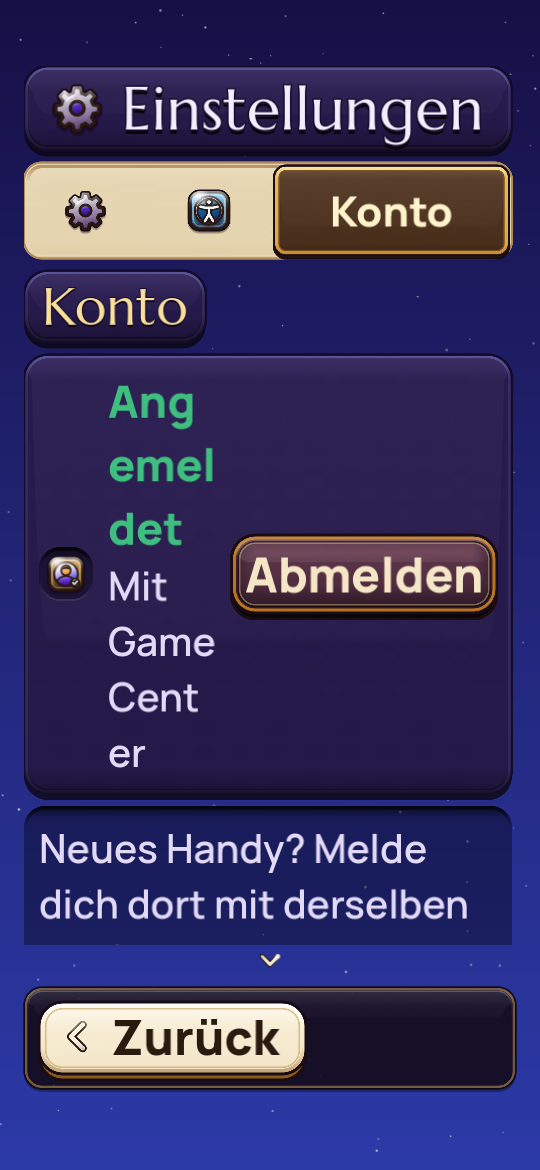
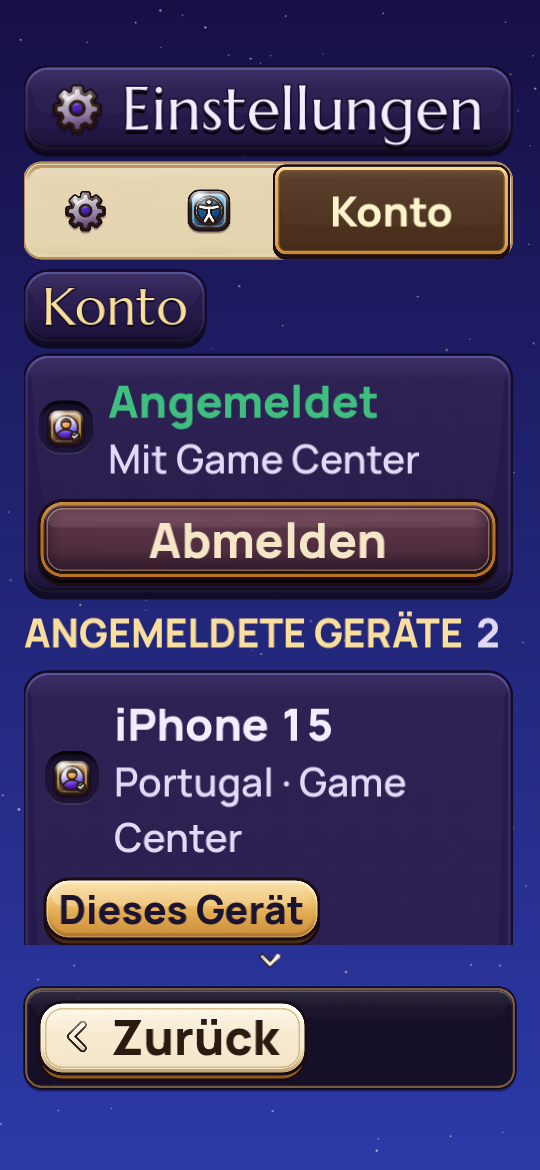
P2-S3-character-3: S3-R30's auth panel fixes; fit 20/20 and 50/50
The auth panel listens to the store again when it re-enters the tree,
so the signed-in account tab draws its devices and ways to sign in.
Past 125% text, each of its rows puts its end control under its words.
New stills of the signed-in account tab at 200% in German; M29 acked.

Claude-Session: https://claude.ai/code/session_01SNkKxqxSgTQePYHeS97vWa

Changed region(s): [[0.0296, 0.3077, 0.9481, 0.8308]]

diff --git a/docs/progress/S3.md b/docs/progress/S3.md
@@ -1,10 +1,10 @@
 # S3 character and settings screens: progress
 
-- Status: Blocked. P2-S3-character-3: board 5b's K and L are fixed and checked. Lesson M26's wider fit checks find one failing state, the account tab signed in at 200% text, and its fix is in `auth_panel.gd`, which no task owns. S3-R30 asks the lead for that file. AD's preview S3-R29 is open (due 11:43Z).
-- Progress: 5 of 5 earlier product tasks merged. P2-S3-character-3: K and L done; M26's coverage done; 68 of 70 fit shots pass (the two left are the signed-in account tab at 200% in English and German).
-- Done: K (the top-level pill wraps between words at large text), L (the profile row on parchment; value-steps 72.7 and 72.2), and M26's coverage: `fit_character.sh` renders 50 shots, `fit_settings.sh` 20.
-- Next: the lead's answer to S3-R30, or its default. Then the two fixes in `auth_panel.gd`, `fit_settings.sh` 20 of 20, the pre-check, and ready with gate_request ("character at 200% text, pt_BR": Display type, Hierarchy).
-- Blocked by: S3-R30 (the lead; due 12:38Z; default: the lead grants `client/scripts/auth_panel.gd` on this task and restarts S3).
+- Status: Green on the scripted fit checks. P2-S3-character-3: board 5b's K and L fixed; S3-R30 granted (cycle 99) and both `auth_panel.gd` fixes made; the pre-check runs on the commit that carries them.
+- Progress: 5 of 5 earlier product tasks merged. P2-S3-character-3: K, L and M26 done; `fit_settings.sh` 20 of 20, `fit_character.sh` 50 of 50.
+- Done: K (the top-level pill wraps at large text), L (the profile row on parchment; value-steps 72.7 and 72.2), M26's coverage, and S3-R30's two fixes (the panel listens again in `_enter_tree`; past 125% each row's end control under its words).
+- Next: the pre-check; then `gate_request` ("character at 200% text, pt_BR": Display type, Hierarchy) and ready. AD's preview S3-R29 (with an addition for the auth panel) is open; its default lets the task go ready.
+- Blocked by: none.
 - Owner decision needed: none.
 
 | Deliverable | Weight (h) | Status | Evidence |
@@ -18,6 +18,12 @@
 | P2-S3-character-3: board 5b's K and L (AD-R40, AD-R41), and lesson M26 | 2 | blocked on S3-R30 (`auth_panel.gd`); K and L fixed; AD's preview S3-R29 open | `docs/art/tracks/menu-screens.md` Part 2 "Board 5b's objection K" and Part 3 "Board 5b's objection L"; `docs/art/shots/menu-screens/character-200-*-4`, `settings-account-*`; `fit_character.sh` |
 
 ## Handoff
+- P2-S3-character-3, S3-R30's fixes (2026-11-16T11:15Z). The lead granted S3-R30 in cycle 99 (db805002: `client/scripts/auth_panel.gd` in the task's exceptions) and restarted S3; M29 acknowledged. Main (db805002) merged into the branch, clean. The notes are in `docs/art/tracks/menu-screens.md`, Part 3, "Every fixture state in the fit checks", "The fixes".
+  - (1) `AuthPanel._enter_tree` reconnects `store.changed` once ready and redraws on the next frame. The signed-in account tab now shows its Devices and Methods sections.
+  - (2) `_item` / `_put_under`: past 125%, every row the panel builds (the status card, each device, each way to sign in) puts its end control under its words; a button is the card's width and wraps. The new sections failed the fit check the same way as the status card ("Android-Handy" 670 px in 193 at 200% de) until this.
+  - Evidence: `fit_settings.sh` 20 of 20 `fit ok`; `fit_character.sh` 50 of 50; `gdlint` clean; `client/build.sh` exit 0 and the setup line exit 0 in this container; `settings-account-100` and `-de` re-shot byte-identical; `settings-200-de-account-signed.png` re-shot, `-900` and `-1800` new (scrolled to the sections).
+  - Board 5b note 5 (`_hide_kicker`), now checkable: it hides only AUTH_TITLE; the Devices and Methods sections keep `ScreenParts.section`'s gold caps label as subheadings under the group's header pill. Left as is (a pill needs `settings_screen.gd`), sent to AD as an addition to S3-R29.
+  - Next: the pre-check (`run_checks.sh`) on the commit that carries this entry; on PASS, record it, set `gate_request` at that sha, and mark ready (S3-R29's default applies if AD has not answered by its due).
 - P2-S3-character-3, blocked (2026-11-16T10:38Z). Lesson M26 (integration branch f53071de, merged here) asks that the fit checks cover every fixture state at 200% in en, pt_BR and de. Both scripts now do. The notes are in `docs/art/tracks/menu-screens.md`, Part 3, "Every fixture state in the fit checks".
   - `fit_character.sh`: 50 shots, adding characters 1 to 5 on tabs 0, 1 and 2 at 200% in the three languages. All 50 print `fit ok`.
   - `fit_settings.sh`: 20 shots, adding every tab at 200% in the three languages, and the account tab signed in (`SIGNED=1` in `screen_settings.gd`) at 100% en and 200% in the three languages. 18 of 20 pass. The signed-in account tab fails at 200% en ("Signed in", a 310 px word in 297) and de ("Angemeldet", 542 px in 217; "Mit Game Center", 258 px in 217). The still is `docs/art/shots/menu-screens/settings-200-de-account-signed.png`.

diff --git a/docs/art/tracks/menu-screens.md b/docs/art/tracks/menu-screens.md
@@ -439,6 +439,17 @@ Lesson M26 asks that a screen's fit check covers every state the screen shows, a
 
 `_hide_kicker` (board 5b's round 2, note 5) cannot be checked against the Devices and Methods sections until the first fix is in.
 
+**The fixes (S3-R30 granted in lead cycle 99, `auth_panel.gd` added to the task's exceptions).**
+
+1. **Listening again.** `AuthPanel._enter_tree` reconnects `store.changed` once the node is ready, and draws the panel again on the next frame, so a change that came while it was out of the tree is not lost. On the settings screen signed in, the Devices and Methods sections now show, in the app as in the shot.
+2. **The end control under the words.** Past side by side (`KitLayout.SIDE_BY_SIDE_UP_TO`, 125%), every row the panel builds puts its end control under its words (`_item`, `_put_under`): the status card's sign-in, try-again or sign-out, each device's sign-out or its "This device" pill, and each way to sign in's link or unlink. A button is the card's width and wraps its words; the pill sits at the row's start. At 100% and 125% nothing moves.
+
+Once the sections showed, they failed the fit check too, for the same reason as the status card: at 200% in German, "Android-Handy" (670 px) had 193 px beside its sign-out, and "Google" 198 px beside its unlink. The second fix answers them all.
+
+Evidence: `fit_settings.sh` 20 of 20 `fit ok`; `fit_character.sh` 50 of 50. `settings-account-100` and `settings-account-de` (signed out, 100%) re-shot byte-identical. `settings-200-de-account-signed.png` is re-shot, with `-900` and `-1800` (`SCROLL`) showing the Devices and Methods sections; all three `fit ok`.
+
+**Note 5 (`_hide_kicker`), now checkable.** It hides only the panel's first child, the AUTH_TITLE label, so the screen's header pill heads the group. The Devices and Methods sections keep `ScreenParts.section`'s gold caps label ("ANGEMELDETE GERÄTE 2", "ANMELDEWEGE"), not the screen's header pill. They read as subheadings within the account group, a step below its pill, so this task leaves them; making them pills would need `settings_screen.gd`'s `_section`, which this task does not hold. It goes to AD with the new stills (S3-R29's addition).
+
 ### What is still worse than before
 
 - **The switch rows.** In grayscale the cream switch rows still weigh about as much as the headings above them. The switch's off track vanishes on a dark card, so they stay parchment (above).
